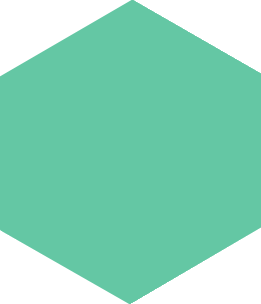
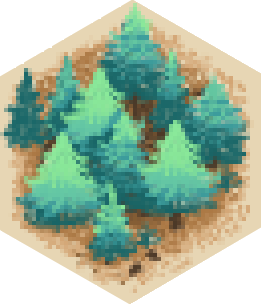
Board and hex art: new sheep/wood tiles, no board bg, readable numbers
- Replace sheep-hex.png and wood-hex.png with pixel-art tiles
- Sheep and wood hexes: fit full image in hex (2*HEX_R box, xMidYMid meet)
- Remove board background (harbor-docks, tan fill, border) in App and MultiplayerGame
- Revert board zoom padding to HEX_R * 0.3
- Hex numbers: thicker white stroke (4), darker fill, drop shadow for readability

diff --git a/src/components/HexBoard.tsx b/src/components/HexBoard.tsx
@@ -76,8 +76,8 @@ export function HexBoard({
   const cx = useMemo(() => (bounds.minX + bounds.maxX) / 2, [bounds])
   const cy = useMemo(() => (bounds.minY + bounds.maxY) / 2, [bounds])
   
-  // Use actual bounds with minimal padding (reduce padding to make board larger)
-  const padding = HEX_R * 0.3 // Reduced from 2 * HEX_R to make board fill more space
+  // Padding around board
+  const padding = HEX_R * 0.3
   const w = useMemo(() => (bounds.maxX - bounds.minX) + padding * 2, [bounds, padding])
   const h = useMemo(() => (bounds.maxY - bounds.minY) + padding * 2, [bounds, padding])
 
@@ -102,6 +102,11 @@ export function HexBoard({
       preserveAspectRatio="xMidYMid meet"
       style={{ maxHeight: '90vh', minHeight: 500, width: '100%', position: 'relative', zIndex: 1 }}
     >
+      <defs>
+        <filter id="hex-number-shadow" x="-20%" y="-20%" width="140%" height="140%">
+          <feDropShadow dx={0} dy={1} stdDeviation={2} floodColor="#000" floodOpacity={0.5} />
+        </filter>
+      </defs>
       {/* Define clip paths for hexes */}
       <defs>
         {hexes.map(h => {
@@ -177,11 +182,11 @@ export function HexBoard({
               <g clipPath={`url(#hex-clip-${h.id})`}>
                 <image
                   href="/wood-hex.png"
-                  x={center.x - HEX_R * 2}
-                  y={center.y - HEX_R * 2}
-                  width={HEX_R * 4}
-                  height={HEX_R * 4}
-                  preserveAspectRatio="none"
+                  x={center.x - HEX_R}
+                  y={center.y - HEX_R}
+                  width={HEX_R * 2}
+                  height={HEX_R * 2}
+                  preserveAspectRatio="xMidYMid meet"
                   style={{ imageRendering: 'pixelated', pointerEvents: 'none' }}
                 />
               </g>
@@ -229,11 +234,11 @@ export function HexBoard({
               <g clipPath={`url(#hex-clip-${h.id})`}>
                 <image
                   href="/sheep-hex.png"
-                  x={center.x - HEX_R * 2}
-                  y={center.y - HEX_R * 2}
-                  width={HEX_R * 4}
-                  height={HEX_R * 4}
-                  preserveAspectRatio="none"
+                  x={center.x - HEX_R}
+                  y={center.y - HEX_R}
+                  width={HEX_R * 2}
+                  height={HEX_R * 2}
+                  preserveAspectRatio="xMidYMid meet"
                   style={{ imageRendering: 'pixelated', pointerEvents: 'none' }}
                 />
               </g>
@@ -257,12 +262,13 @@ export function HexBoard({
                 y={center.y}
                 textAnchor="middle"
                 dominantBaseline="central"
-                fill={h.number === 6 || h.number === 8 ? '#b91c1c' : '#2d2216'}
+                fill={h.number === 6 || h.number === 8 ? '#b91c1c' : '#1a1a1a'}
                 fontWeight="bold"
                 fontSize={47.5}
                 stroke="#ffffff"
-                strokeWidth={2}
+                strokeWidth={4}
                 paintOrder="stroke"
+                filter="url(#hex-number-shadow)"
                 style={{ pointerEvents: 'none' }}
               >
                 {h.number}

diff --git a/src/components/MultiplayerGame.tsx b/src/components/MultiplayerGame.tsx
@@ -600,7 +600,7 @@ export function MultiplayerGame({ gameId, myPlayerIndex, initialState }: Props) 
       )}
 
       <div className="game-layout" style={{ display: 'flex', gap: 24, alignItems: 'flex-start' }}>
-        <div className="game-board" style={{ flex: '1 1 auto', minWidth: 600, borderRadius: 12, overflow: 'visible', backgroundColor: '#e0d5c4', backgroundImage: 'url(/harbor-docks.png)', backgroundSize: 'cover', backgroundPosition: 'center', border: '3px solid #c4b59a', boxShadow: 'inset 0 0 60px rgba(139,115,85,0.15)', display: 'flex', alignItems: 'center', justifyContent: 'center', position: 'relative' }}>
+        <div className="game-board" style={{ flex: '1 1 auto', minWidth: 600, borderRadius: 12, overflow: 'visible', display: 'flex', alignItems: 'center', justifyContent: 'center', position: 'relative' }}>
           <HexBoard
             hexes={game.hexes}
             vertexStates={vertexStates}

diff --git a/src/App.tsx b/src/App.tsx
@@ -1007,12 +1007,6 @@ export default function App() {
             minWidth: 600,
             borderRadius: 12,
             overflow: 'visible',
-            backgroundColor: '#e0d5c4',
-            backgroundImage: 'url(/harbor-docks.png)',
-            backgroundSize: 'cover',
-            backgroundPosition: 'center',
-            border: '3px solid #c4b59a',
-            boxShadow: 'inset 0 0 60px rgba(139,115,85,0.15)',
             display: 'flex',
             alignItems: 'center',
             justifyContent: 'center',
